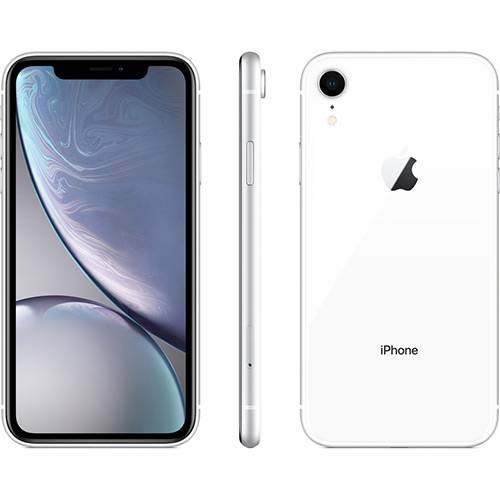
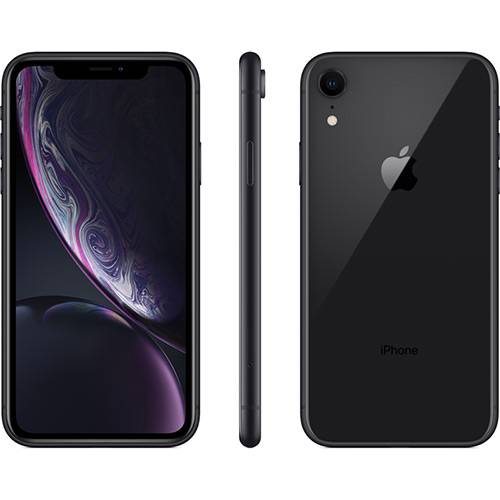
Adicionando imagens para smartphones

diff --git a/src/mock/dataset.tsx b/src/mock/dataset.tsx
@@ -354,7 +354,12 @@ export default class DataSet {
             id: 204,
             nome: "iPhone X Max Gold 64gb",
             descricao: "descricao do produto",
-            imagem: [`${process.env.PUBLIC_URL}/img/celulares/iphonesxmaxouro.jpg`],
+            imagem: [
+                `${process.env.PUBLIC_URL}/img/celulares/iphonesxmaxouro.jpg`,
+                `${process.env.PUBLIC_URL}/img/celulares/iphonesxmaxouro_3.jpg`,
+                `${process.env.PUBLIC_URL}/img/celulares/iphonesxmaxouro_4.jpg`,
+                `${process.env.PUBLIC_URL}/img/celulares/iphonesxmaxouro_5.jpg`,
+            ],
             preco: 9999.00,
             qtdEstoque: 2,
             categoria: "Smartphones",
@@ -364,9 +369,14 @@ export default class DataSet {
         {
             chave: 205,
             id: 205,
-            nome: "iPhone XR 32gb",
+            nome: "iPhone Xr 64GB Preto IOS12 4G",
             descricao: "descricao do produto",
-            imagem: [`${process.env.PUBLIC_URL}/img/celulares/iphonexr.jpg`],
+            imagem: [
+                `${process.env.PUBLIC_URL}/img/celulares/iphonexr.jpg`,
+                `${process.env.PUBLIC_URL}/img/celulares/iphonexr_2.jpg`,
+                `${process.env.PUBLIC_URL}/img/celulares/iphonexr_3.jpg`,
+                `${process.env.PUBLIC_URL}/img/celulares/iphonexr_4.jpg`,
+            ],
             preco: 4999.00,
             qtdEstoque: 2,
             categoria: "Smartphones",
@@ -376,9 +386,19 @@ export default class DataSet {
         {
             chave: 206,
             id: 206,
-            nome: "LG k9",
+            nome: "Smartphone LG K9 TV Dual Chip Android 7.0 Tela 5 Quad Core 1.3 Ghz 16GB",
             descricao: "descricao do produto",
-            imagem: [`${process.env.PUBLIC_URL}/img/celulares/lgk9.jpg`],
+            imagem: [
+                `${process.env.PUBLIC_URL}/img/celulares/lgk9.jpg`,
+                `${process.env.PUBLIC_URL}/img/celulares/lgk9_2.jpg`,
+                `${process.env.PUBLIC_URL}/img/celulares/lgk9_3.jpg`,
+                `${process.env.PUBLIC_URL}/img/celulares/lgk9_4.jpg`,
+                `${process.env.PUBLIC_URL}/img/celulares/lgk9_5.jpg`,
+                `${process.env.PUBLIC_URL}/img/celulares/lgk9_6.jpg`,
+                `${process.env.PUBLIC_URL}/img/celulares/lgk9_7.jpg`,
+                `${process.env.PUBLIC_URL}/img/celulares/lgk9_8.jpg`,
+                `${process.env.PUBLIC_URL}/img/celulares/lgk9_9.jpg`,
+            ],
             preco: 569.00,
             qtdEstoque: 2,
             categoria: "Smartphones",
@@ -388,9 +408,21 @@ export default class DataSet {
         {
             chave: 207,
             id: 207,
-            nome: "LG Q6",
+            nome: "Smartphone LG Q6 Dual Chip Android 7.0 Tela 5.5\" Full Hd+ Octacore 32GB 4G Câmera 13MP - Preto",
             descricao: "descricao do produto",
-            imagem: [`${process.env.PUBLIC_URL}/img/celulares/lgq6.jpg`],
+            imagem: [
+                `${process.env.PUBLIC_URL}/img/celulares/lgq6.jpg`,
+                `${process.env.PUBLIC_URL}/img/celulares/lgq6_2.jpg`,
+                `${process.env.PUBLIC_URL}/img/celulares/lgq6_3.jpg`,
+                `${process.env.PUBLIC_URL}/img/celulares/lgq6_4.jpg`,
+                `${process.env.PUBLIC_URL}/img/celulares/lgq6_5.jpg`,
+                `${process.env.PUBLIC_URL}/img/celulares/lgq6_6.jpg`,
+                `${process.env.PUBLIC_URL}/img/celulares/lgq6_7.jpg`,
+                `${process.env.PUBLIC_URL}/img/celulares/lgq6_8.jpg`,
+                `${process.env.PUBLIC_URL}/img/celulares/lgq6_9.jpg`,
+                `${process.env.PUBLIC_URL}/img/celulares/lgq6_10.jpg`,
+                `${process.env.PUBLIC_URL}/img/celulares/lgq6_11.jpg`,
+            ],
             preco: 1999.00,
             qtdEstoque: 2,
             categoria: "Smartphones",
@@ -400,9 +432,20 @@ export default class DataSet {
         {
             chave: 208,
             id: 208,
-            nome: "LG Q Note+",
+            nome: "LG QNote+ 64GB Dual Chip Android 8.1.0 (oreo) Tela 6.2 Full HD+ (18:9) Octa Core 1.5 Ghz 4G ",
             descricao: "descricao do produto",
-            imagem: [`${process.env.PUBLIC_URL}/img/celulares/lgqnoteplus.jpg`],
+            imagem: [
+                `${process.env.PUBLIC_URL}/img/celulares/lgqnoteplus.jpg`,
+                `${process.env.PUBLIC_URL}/img/celulares/lgqnoteplus_2.jpg`,
+                `${process.env.PUBLIC_URL}/img/celulares/lgqnoteplus_3.jpg`,
+                `${process.env.PUBLIC_URL}/img/celulares/lgqnoteplus_4.jpg`,
+                `${process.env.PUBLIC_URL}/img/celulares/lgqnoteplus_5.jpg`,
+                `${process.env.PUBLIC_URL}/img/celulares/lgqnoteplus_6.jpg`,
+                `${process.env.PUBLIC_URL}/img/celulares/lgqnoteplus_7.jpg`,
+                `${process.env.PUBLIC_URL}/img/celulares/lgqnoteplus_8.jpg`,
+                `${process.env.PUBLIC_URL}/img/celulares/lgqnoteplus_9.jpg`,
+                `${process.env.PUBLIC_URL}/img/celulares/lgqnoteplus_10.jpg`,
+            ],
             preco: 819.99,
             qtdEstoque: 2,
             categoria: "Smartphones",
@@ -412,9 +455,18 @@ export default class DataSet {
         {
             chave: 209,
             id: 209,
-            nome: "Moto G6",
+            nome: "Motorola Moto G6 Plus 64GB Dual Chip Android Oreo - 8.0 Tela 5.9 Octa-Core 2.2 GHz 4G",
             descricao: "descricao do produto",
-            imagem: [`${process.env.PUBLIC_URL}/img/celulares/motog6.jpg`],
+            imagem: [
+                `${process.env.PUBLIC_URL}/img/celulares/motog6.jpg`,
+                `${process.env.PUBLIC_URL}/img/celulares/motog6_2.jpg`,
+                `${process.env.PUBLIC_URL}/img/celulares/motog6_3.jpg`,
+                `${process.env.PUBLIC_URL}/img/celulares/motog6_4.jpg`,
+                `${process.env.PUBLIC_URL}/img/celulares/motog6_5.jpg`,
+                `${process.env.PUBLIC_URL}/img/celulares/motog6_6.jpg`,
+                `${process.env.PUBLIC_URL}/img/celulares/motog6_7.jpg`,
+                `${process.env.PUBLIC_URL}/img/celulares/motog6_8.jpg`,
+            ],
             preco: 1613.99,
             qtdEstoque: 2,
             categoria: "Smartphones",
@@ -424,9 +476,17 @@ export default class DataSet {
         {
             chave: 210,
             id: 210,
-            nome: "Galaxy Note 9",
+            nome: "Samsung Galaxy Note 9 128GB Nano Chip Android Tela 6.4\" Octa-Core 2.8GHz 4G Câmera Dupla 12MP 6GB RAM",
             descricao: "descricao do produto",
-            imagem: [`${process.env.PUBLIC_URL}/img/celulares/note9.jpg`],
+            imagem: [
+                `${process.env.PUBLIC_URL}/img/celulares/note9.jpg`,
+                `${process.env.PUBLIC_URL}/img/celulares/note9_2.jpg`,
+                `${process.env.PUBLIC_URL}/img/celulares/note9_3.jpg`,
+                `${process.env.PUBLIC_URL}/img/celulares/note9_4.jpg`,
+                `${process.env.PUBLIC_URL}/img/celulares/note9_5.jpg`,
+                `${process.env.PUBLIC_URL}/img/celulares/note9_6.jpg`,
+                `${process.env.PUBLIC_URL}/img/celulares/note9_7.jpg`,
+            ],
             preco: 4588.99,
             qtdEstoque: 2,
             categoria: "Smartphones",
@@ -436,9 +496,16 @@ export default class DataSet {
         {
             chave: 211,
             id: 211,
-            nome: "Galaxy S9",
+            nome: "Samsung Galaxy S9 Dual Chip Android 8.0 Tela 5.8\" Octa-Core 2.8GHz 128GB 4G Câmera 12MP - Preto",
             descricao: "descricao do produto",
-            imagem: [`${process.env.PUBLIC_URL}/img/celulares/s9.jpg`],
+            imagem: [
+                `${process.env.PUBLIC_URL}/img/celulares/s9.jpg`,
+                `${process.env.PUBLIC_URL}/img/celulares/s9_2.jpg`,
+                `${process.env.PUBLIC_URL}/img/celulares/s9_3.jpg`,
+                `${process.env.PUBLIC_URL}/img/celulares/s9_4.jpg`,
+                `${process.env.PUBLIC_URL}/img/celulares/s9_5.jpg`,
+                `${process.env.PUBLIC_URL}/img/celulares/s9_6.jpg`,
+            ],
             preco: 3199.00,
             qtdEstoque: 2,
             categoria: "Smartphones",
@@ -448,9 +515,17 @@ export default class DataSet {
         {
             chave: 212,
             id: 212,
-            nome: "Galaxy S9+",
+            nome: "Samsung Galaxy S9+ Dual Chip Android 8.0 Tela 6.2\" Octa-Core 2.8GHz 128GB 4G Câmera 12MP Dual Cam - Preto",
             descricao: "descricao do produto",
-            imagem: [`${process.env.PUBLIC_URL}/img/celulares/s9plus.jpg`],
+            imagem: [
+                `${process.env.PUBLIC_URL}/img/celulares/s9plus.jpg`,
+                `${process.env.PUBLIC_URL}/img/celulares/s9plus_2.jpg`,
+                `${process.env.PUBLIC_URL}/img/celulares/s9plus_3.jpg`,
+                `${process.env.PUBLIC_URL}/img/celulares/s9plus_4.jpg`,
+                `${process.env.PUBLIC_URL}/img/celulares/s9plus_5.jpg`,
+                `${process.env.PUBLIC_URL}/img/celulares/s9plus_6.jpg`,
+                `${process.env.PUBLIC_URL}/img/celulares/s9plus_7.jpg`,
+            ],
             preco: 3499.00,
             qtdEstoque: 2,
             categoria: "Smartphones",
@@ -460,9 +535,12 @@ export default class DataSet {
         {
             chave: 213,
             id: 213,
-            nome: "Sony Xperia M5",
+            nome: "Sony Xperia M5 Dual Chip Android 5.0 Tela 5",
             descricao: "descricao do produto",
-            imagem: [`${process.env.PUBLIC_URL}/img/celulares/xperiam5.jpg`],
+            imagem: [
+                `${process.env.PUBLIC_URL}/img/celulares/xperiam5.jpg`,
+                `${process.env.PUBLIC_URL}/img/celulares/xperiam5_2.jpg`,
+            ],
             preco: 1648.00,
             qtdEstoque: 2,
             categoria: "Smartphones",
@@ -472,9 +550,14 @@ export default class DataSet {
         {
             chave: 214,
             id: 214,
-            nome: "Sony Xperia Z5",
+            nome: "Sony Xperia Z5 Android 5.1 Tela 5.2\" 32GB 4G ",
             descricao: "descricao do produto",
-            imagem: [`${process.env.PUBLIC_URL}/img/celulares/xperiaz5.jpg`],
+            imagem: [
+                `${process.env.PUBLIC_URL}/img/celulares/xperiaz5.jpg`,
+                `${process.env.PUBLIC_URL}/img/celulares/xperiaz5_2.jpg`,
+                `${process.env.PUBLIC_URL}/img/celulares/xperiaz5_3.jpg`,
+                `${process.env.PUBLIC_URL}/img/celulares/xperiaz5_4.jpg`,
+            ],
             preco: 1499.90,
             qtdEstoque: 2,
             categoria: "Smartphones",
@@ -484,9 +567,15 @@ export default class DataSet {
         {
             chave: 215,
             id: 215,
-            nome: "Asus Zenfone Max M1",
+            nome: "Smartphone Zenfone Max M1 32GB Dual Chip Android 7 Tela 5.2\" Qualcomm Snapdragon ",
             descricao: "descricao do produto",
-            imagem: [`${process.env.PUBLIC_URL}/img/celulares/zenfonemaxm1.jpg`],
+            imagem: [
+                `${process.env.PUBLIC_URL}/img/celulares/zenfonemaxm1.jpg`,
+                `${process.env.PUBLIC_URL}/img/celulares/zenfonemaxm1_2.jpg`,
+                `${process.env.PUBLIC_URL}/img/celulares/zenfonemaxm1_3.jpg`,
+                `${process.env.PUBLIC_URL}/img/celulares/zenfonemaxm1_4.jpg`,
+                `${process.env.PUBLIC_URL}/img/celulares/zenfonemaxm1_5.jpg`,
+            ],
             preco: 1087.00,
             qtdEstoque: 2,
             categoria: "Smartphones",
